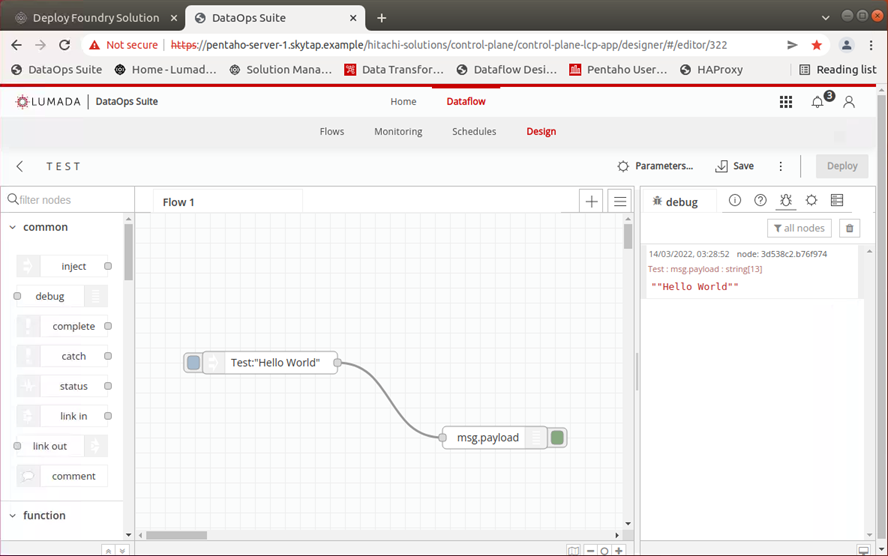
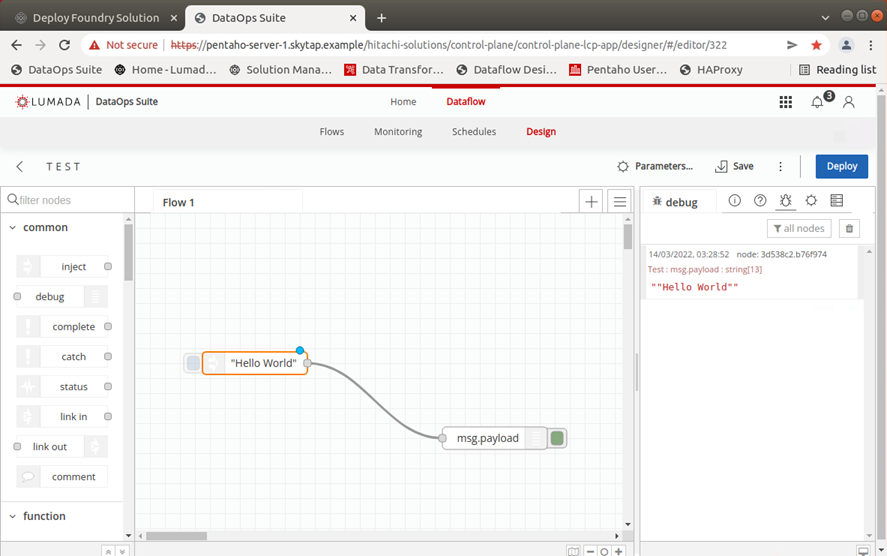
Updates

diff --git a/05 Post Installation/post installation.md b/05 Post Installation/post installation.md
@@ -100,7 +100,8 @@ Below is a very quick 2Hello World" flow that introduces the key concepts:
 * Then double click and set up the payload as string and write “Hello world”.
 * Drag and drop a debug node, the same way as you did with the inject one.
 * Wire them together.
-* Click on the “Deploy” button on the right corner.
+* Click on the “Deploy” button up in the right corner.
+* Select the debug option.
 * Click on the blue button just left of the inject node.
 
 ---
